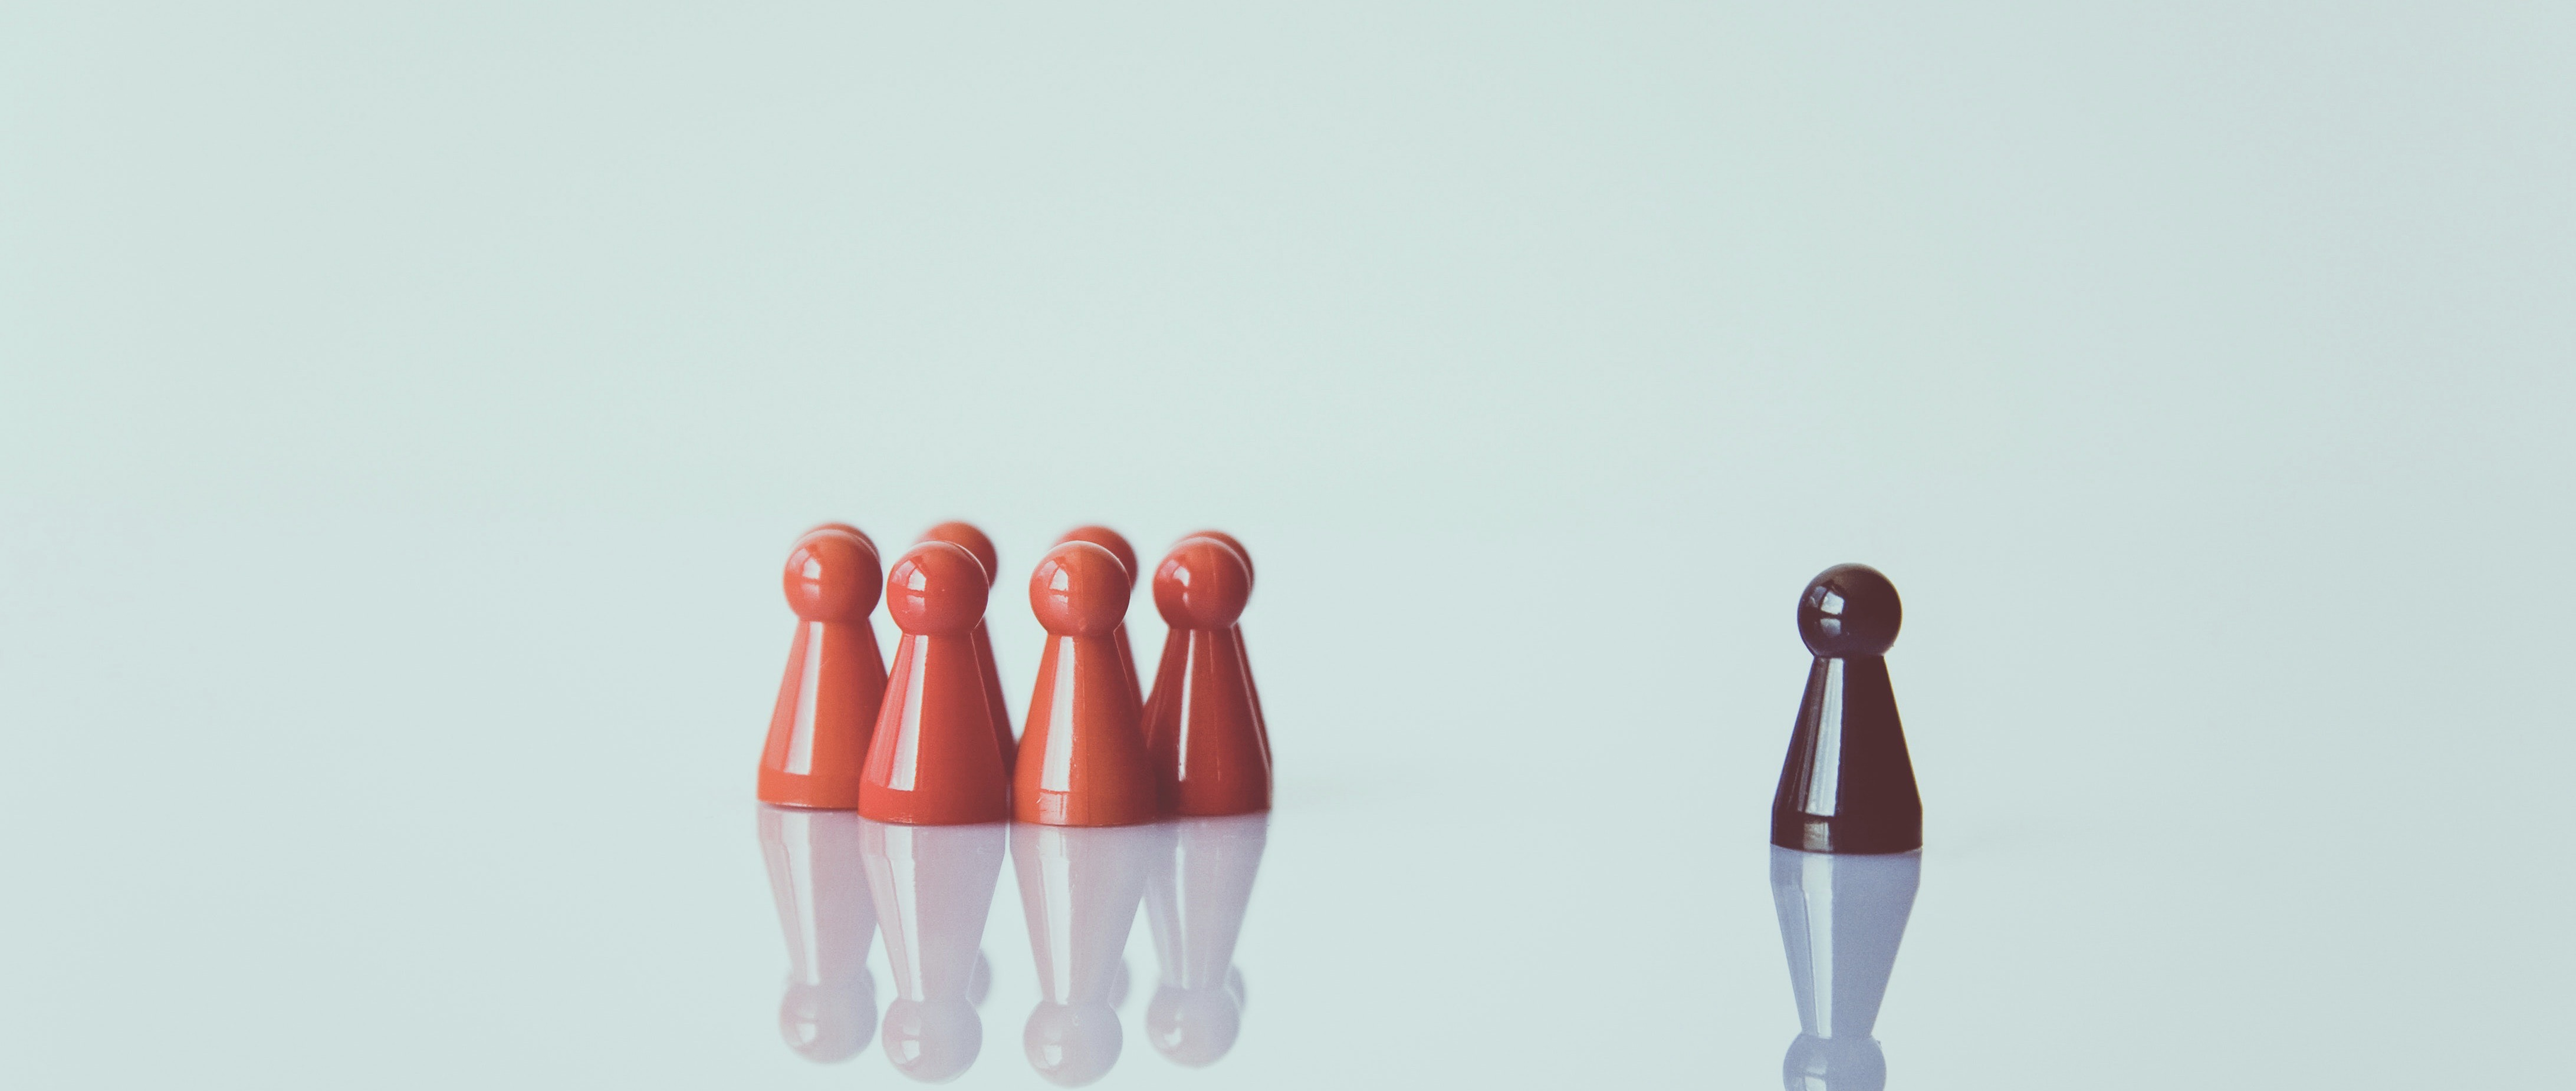
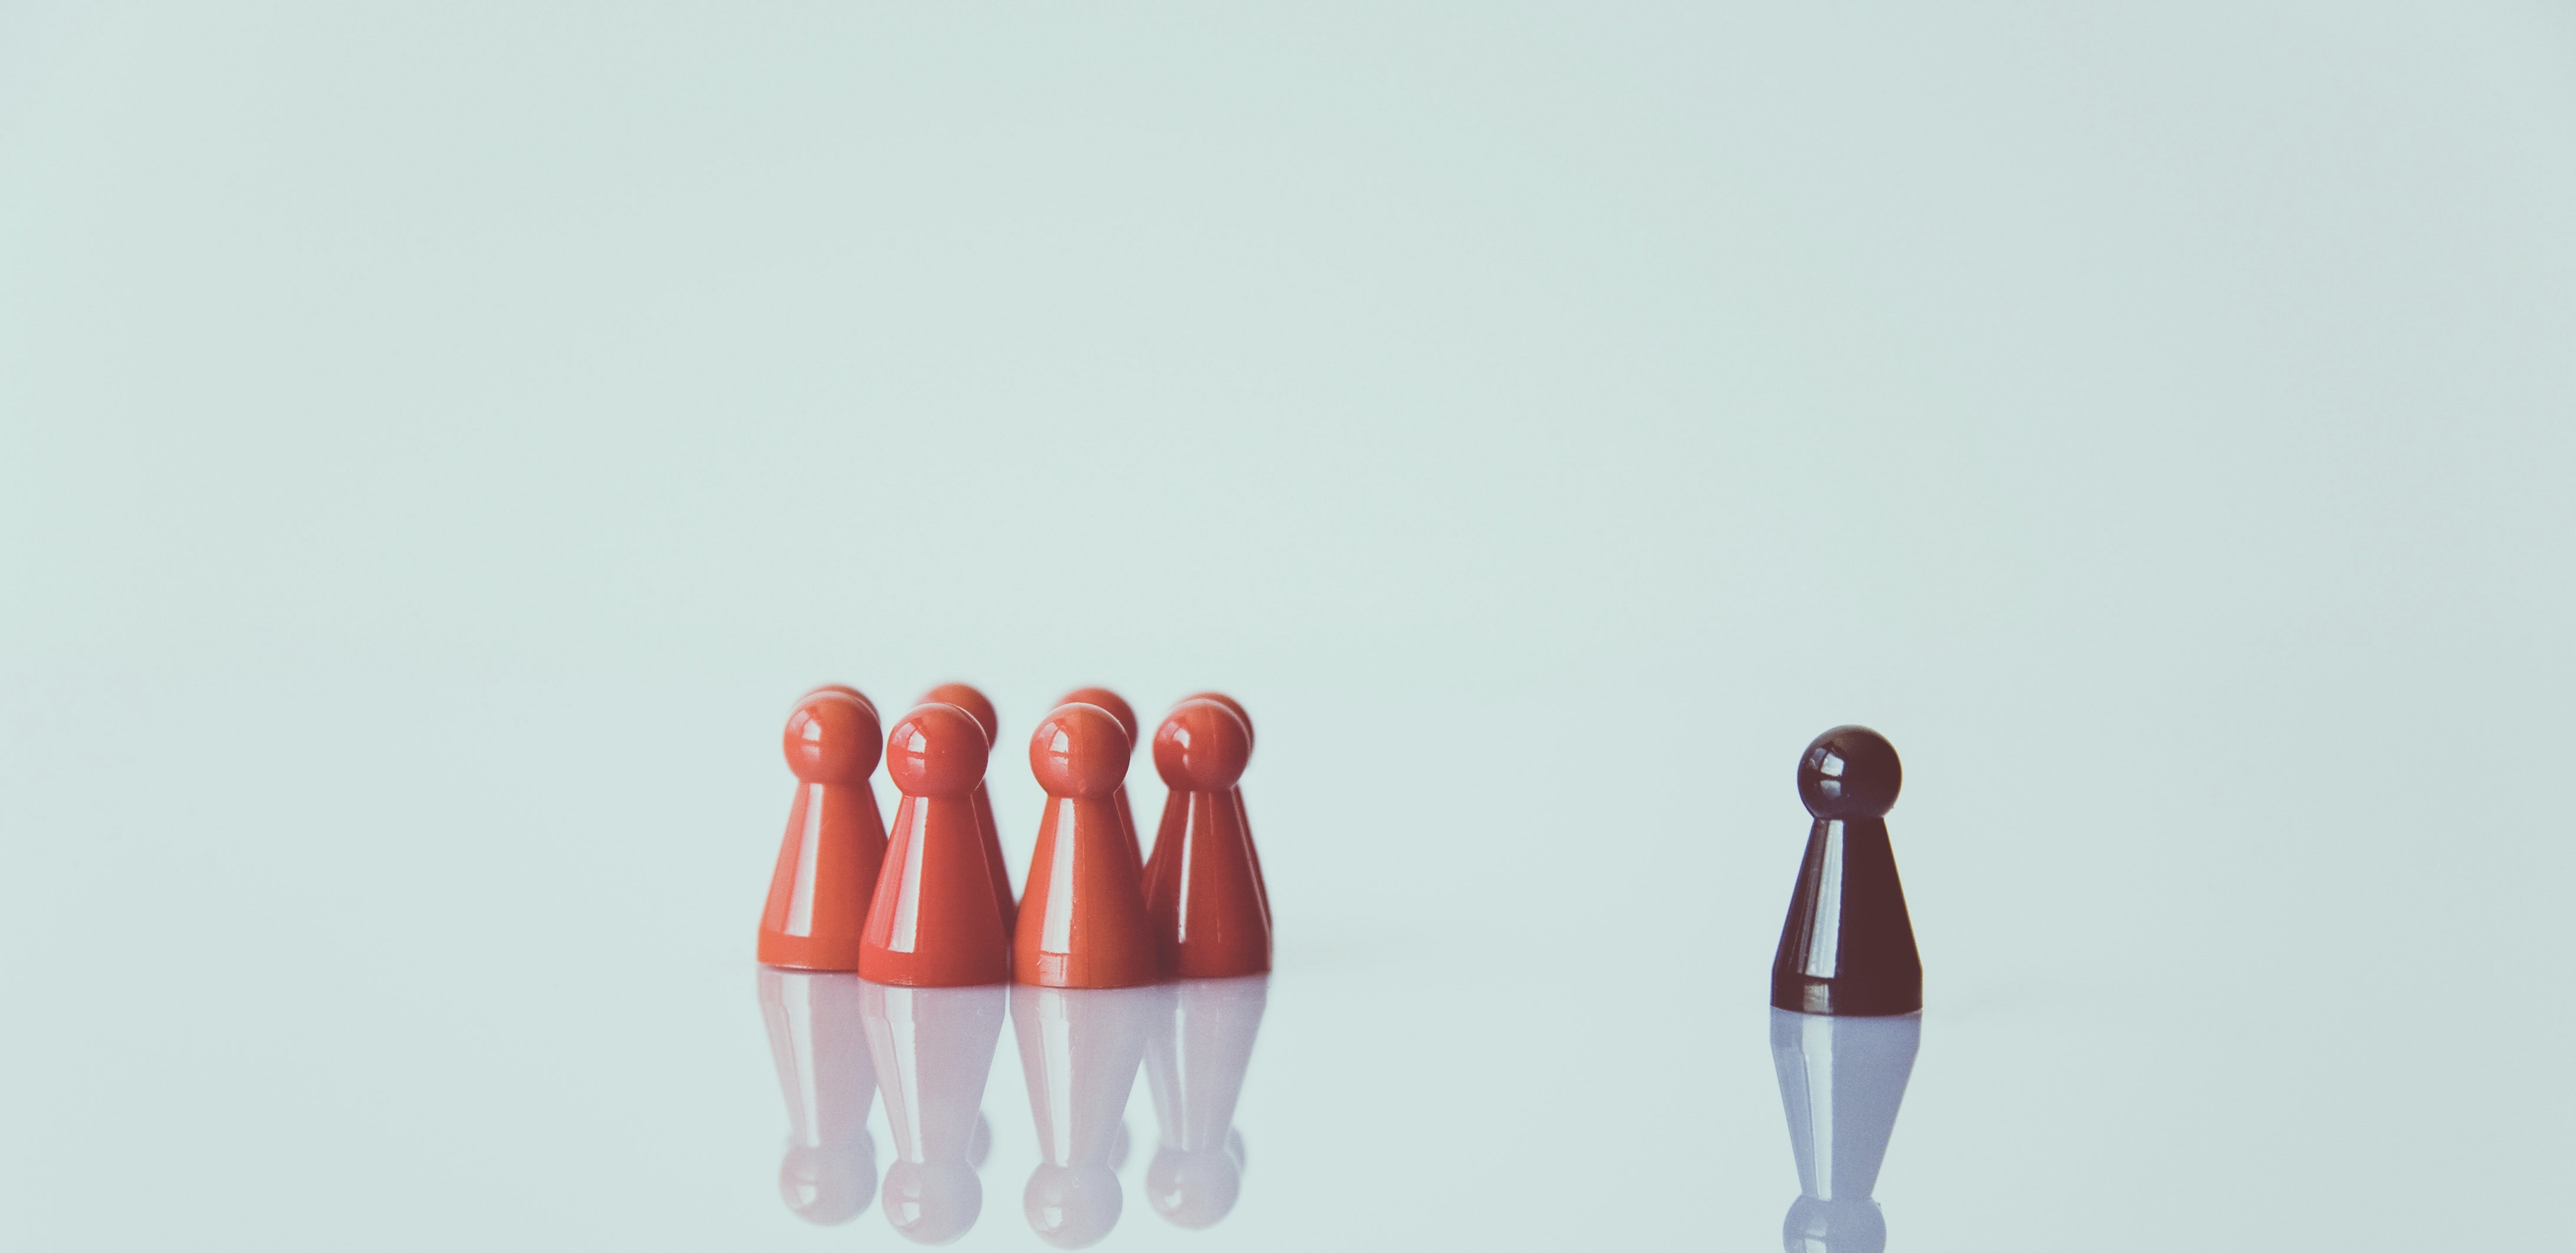
change carousel to jumbotron

Changed region(s): [[0.2802, 0.4619, 0.4982, 0.893], [0.685, 0.5235, 0.7473, 0.8622], [0.4359, 0.8314, 0.467, 0.8622]]

diff --git a/templates/home.html b/templates/home.html
@@ -4,44 +4,52 @@
 
 <!--Carousel-->
 
-<div id="carouselHome" class="carousel slide" data-ride="carousel">
-    <!-- Indicators -->
-    <ul class="carousel-indicators">
-        <li data-target="#carouselHome" data-slide-to="0" class="active"></li>
-        <li data-target="#carouselHome" data-slide-to="1"></li>
-        <li data-target="#carouselHome" data-slide-to="2"></li>
-    </ul>
-    <div class="carousel-inner">
-        <div class="carousel-item active" style="max-height: 500px">
-            <img class="d-block w-100" src="../static/img/crowd1.jpeg" alt="First slide">
-            <div class="carousel-caption d-none d-md-block" style="top: 15%; color: black">
-                <div class="hometitle">Your Dataset Bias Detector</div>
-                <h5>Helping our clients customize the process of finding image dataset bias using crowdsourcing.</h5>
-            </div>
-        </div>
-        <div class="carousel-item" style="max-height: 500px">
-            <img class="d-block w-100" src="../static/img/crowd1.jpeg" alt="Second slide">
-            <div class="carousel-caption d-none d-md-block" style="top: 15%; color: black">
-                <div class="hometitle">Your Dataset Bias Detector</div>
-                <h5>Helping our clients customize the process of finding image dataset bias using crowdsourcing.</h5>
-            </div>
-        </div>
-        <div class="carousel-item" style="max-height: 500px">
-            <img class="d-block w-100" src="../static/img/crowd1.jpeg" alt="Third slide">
-            <div class="carousel-caption d-none d-md-block" style="top: 15%; color: white">
-                <div class="hometitle">Your Dataset Bias Detector</div>
-                <h5>Helping our clients customize the process of finding image dataset bias using crowdsourcing.</h5>
-            </div>
-        </div>
+<!--<div id="carouselHome" class="carousel slide" data-ride="carousel">-->
+<!--    &lt;!&ndash; Indicators &ndash;&gt;-->
+<!--    <ul class="carousel-indicators">-->
+<!--        <li data-target="#carouselHome" data-slide-to="0" class="active"></li>-->
+<!--        <li data-target="#carouselHome" data-slide-to="1"></li>-->
+<!--        <li data-target="#carouselHome" data-slide-to="2"></li>-->
+<!--    </ul>-->
+<!--    <div class="carousel-inner">-->
+<!--        <div class="carousel-item active" style="max-height: 500px">-->
+<!--            <img class="d-block w-100" src="../static/img/crowd1.jpeg" alt="First slide">-->
+<!--            <div class="carousel-caption d-none d-md-block" style="top: 15%; color: black">-->
+<!--                <div class="hometitle">Your Dataset Bias Detector</div>-->
+<!--                <h5>Helping our clients customize the process of finding image dataset bias using crowdsourcing.</h5>-->
+<!--            </div>-->
+<!--        </div>-->
+<!--        <div class="carousel-item" style="max-height: 500px">-->
+<!--            <img class="d-block w-100" src="../static/img/crowd1.jpeg" alt="Second slide">-->
+<!--            <div class="carousel-caption d-none d-md-block" style="top: 15%; color: black">-->
+<!--                <div class="hometitle">Your Dataset Bias Detector</div>-->
+<!--                <h5>Helping our clients customize the process of finding image dataset bias using crowdsourcing.</h5>-->
+<!--            </div>-->
+<!--        </div>-->
+<!--        <div class="carousel-item" style="max-height: 500px">-->
+<!--            <img class="d-block w-100" src="../static/img/crowd1.jpeg" alt="Third slide">-->
+<!--            <div class="carousel-caption d-none d-md-block" style="top: 15%; color: white">-->
+<!--                <div class="hometitle">Your Dataset Bias Detector</div>-->
+<!--                <h5>Helping our clients customize the process of finding image dataset bias using crowdsourcing.</h5>-->
+<!--            </div>-->
+<!--        </div>-->
+<!--    </div>-->
+<!--    <a class="carousel-control-prev" href="#carouselHome" role="button" data-slide="prev">-->
+<!--        <span class="carousel-control-prev-icon" aria-hidden="true"></span>-->
+<!--        <span class="sr-only">Previous</span>-->
+<!--    </a>-->
+<!--    <a class="carousel-control-next" href="#carouselHome" role="button" data-slide="next">-->
+<!--        <span class="carousel-control-next-icon" aria-hidden="true"></span>-->
+<!--        <span class="sr-only">Next</span>-->
+<!--    </a>-->
+<!--</div>-->
+
+
+<div class="jumbotron align-items-center">
+    <div class="container text-center">
+        <div class="hometitle">Your Dataset Bias Detector</div>
+        <p class="lead">Helping our clients customize the process of finding image dataset bias using crowdsourcing.</p>
     </div>
-    <a class="carousel-control-prev" href="#carouselHome" role="button" data-slide="prev">
-        <span class="carousel-control-prev-icon" aria-hidden="true"></span>
-        <span class="sr-only">Previous</span>
-    </a>
-    <a class="carousel-control-next" href="#carouselHome" role="button" data-slide="next">
-        <span class="carousel-control-next-icon" aria-hidden="true"></span>
-        <span class="sr-only">Next</span>
-    </a>
 </div>
 
 <!--End of Carousel-->

diff --git a/templates/info-base.html b/templates/info-base.html
@@ -38,13 +38,16 @@
 <!--  Navebar  -->
 <div class="nav-container fixed-top">
     <nav class="navbar navbar-expand-lg navbar-fixed-top">
-        <a class="navbar-brand ml-3" href="/">Logo</a>
+        <a class="navbar-brand ml-4" href="/">
+            <img src="../static/img/logo.jpg" width="30" height="30" class="d-inline-block align-top" alt="">
+            CSGAME
+        </a>
         <button class="navbar-toggler" type="button" data-toggle="collapse" data-target="#navbarSupportedContent" aria-controls="navbarSupportedContent" aria-expanded="false" aria-label="Toggle navigation">
             <span class="navbar-toggler-icon"></span>
         </button>
 
         <div class="collapse navbar-collapse" id="navbarSupportedContent">
-            <ul class="navbar-nav mr-auto">
+            <ul class="navbar-nav ml-auto" style="padding-right: 8rem">
                 <li class="nav-item active ml-5">
                     <a class="nav-link" href="{% url 'about' %}">About Us<span class="sr-only">(current)</span></a>
                 </li>
@@ -57,13 +60,8 @@
                 <li class="nav-item ml-4">
                     <a href="{% url 'service' %}" class="button"><span>Service</span></a>
                 </li>
-
-
             </ul>
-            <form class="form-inline my-2 my-lg-0">
-                <input class="form-control mr-sm-2" type="search" placeholder="Search" aria-label="Search">
-                <button type="submit" style="background-color: transparent; border-color: transparent"><i class="fa fa-search"></i></button>
-            </form>
+
         </div>
     </nav>
 </div>

diff --git a/static/css/style.css b/static/css/style.css
@@ -115,11 +115,13 @@ h1, h2, h3, h4, h5, h6 {
 .navbar {
     background-color: white;
     font-size: 18px;
+    padding: 5px!important;
 }
 
 .navbar-brand {
     color: #333;
     font-size: 25px;
+    padding-left: 5rem;
 }
 /*End of Navbar*/
 
@@ -186,12 +188,21 @@ a.back-to-top {
 }
 /*End of Button*/
 
-/*Carousel*/
-.carousel{
-    width: 100%;
-    max-height: 500px
+/*Jumbotron*/
+.jumbotron {
+    background-image: url("/static/img/crowd1.jpeg");
+    background-position: center;
+    background-repeat: no-repeat;
+    background-size: 100% auto;
+    color: black;
+    height: 500px;
 }
-/*End of Carousel*/
+
+.jumbotron p {
+    font-size: x-large;
+    font-weight: 400;
+}
+/*End of Jumbotron*/
 
 /*Divider*/
 .divider{
